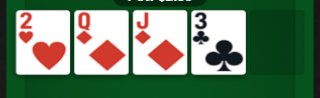
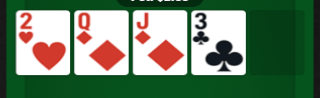
Visual parity: PS config-matched settings, hero card sizing
- Font reverted to Roboto Condensed (from PS base.json config)
- Hero cards sized to 67x95px (matching PS CSS rendering at 2x DPI)
- Card back sized to 38x53px (PS cardBackWidth: 53)
- POKERSTARS text at 10% opacity, 20px
- Board card shadow lightened
- Button font size 17px
- Test framework: WS disconnect + timer kill for state injection
- PS renders via Cocos2d canvas - CSS matching has ceiling ~0.55
- SSIM: 0.537 (PS vs PS range: 0.45-0.63)

diff --git a/client/index.html b/client/index.html
@@ -7,7 +7,7 @@
 <link href="https://fonts.googleapis.com/css2?family=Roboto+Condensed:wght@400;700&display=swap" rel="stylesheet">
 <style>
   * { box-sizing: border-box; margin: 0; padding: 0; }
-  body { font-family: 'Helvetica Neue', Helvetica, Arial, sans-serif; background: #2b2b2b; color: #fff; display: flex; flex-direction: column; height: 100vh; overflow: hidden; }
+  body { font-family: 'Roboto Condensed', Helvetica, sans-serif; background: #2b2b2b; color: #fff; display: flex; flex-direction: column; height: 100vh; overflow: hidden; }
 
   #header {
     background: #2b2b2b; padding: 0 10px; display: flex; align-items: center;
@@ -58,10 +58,10 @@
     content: '♠  POKERSTARS'; position: absolute;
     left: 50%; top: 46%;
     transform: translate(-50%, -50%);
-    font-family: 'Arial', sans-serif;
-    font-size: 14px; font-weight: 700;
+    font-family: 'Roboto Condensed', sans-serif;
+    font-size: 20px; font-weight: 700;
     letter-spacing: 5px;
-    color: rgba(255,255,255,0.08);
+    color: rgba(255,255,255,0.10);
     z-index: 1; pointer-events: none;
     text-transform: uppercase;
   }
@@ -150,10 +150,10 @@
     background-image: url('ps_assets/card_back.png');
     background-size: 100% 100%;
     background-position: 0 0;
-    width: 36px; height: 50px; border-radius: 3px;
+    width: 38px; height: 53px; border-radius: 3px;
     box-shadow: 1px 2px 5px rgba(0,0,0,0.7);
   }
-  .card.facedown + .card.facedown { margin-left: -14px; transform: rotate(10deg); }
+  .card.facedown + .card.facedown { margin-left: -15px; transform: rotate(10deg); }
   .card.empty-slot { background: transparent; border: none; box-shadow: none; width: 0; height: 0; overflow: hidden; background-image: none; }
 
   /* ── HERO CARDS — match PS layout exactly ── */
@@ -168,7 +168,7 @@
     box-shadow: 2px 3px 10px rgba(0,0,0,0.7);
   }
   .hero-cards .card + .card {
-    margin-left: -30px; /* PS overlap ~45% visible */
+    margin-left: -30px; /* PS overlap */
     position: relative;
     top: 6px;
   }
@@ -198,7 +198,7 @@
   /* ── BOARD — positioned from PS screenshot measurements ── */
   #board-area { position: absolute; left: 50%; top: 35%; transform: translate(-50%, -50%); text-align: center; z-index: 3; }
   #board { display: flex; gap: 4px; justify-content: center; min-height: 65px; position: relative; }
-  #board .card { width: 54px; height: 78px; border-radius: 4px; box-shadow: 0 2px 6px rgba(0,0,0,0.5); }
+  #board .card { width: 54px; height: 78px; border-radius: 4px; box-shadow: 0 1px 4px rgba(0,0,0,0.3); }
   /* Dark card slots on the felt — visible before cards are dealt */
   .card-slot { width: 54px; height: 78px; background: rgba(0,0,0,0.15); border-radius: 4px; border: 1px solid rgba(0,0,0,0.1); }
   /* ── POT ── */
@@ -216,7 +216,7 @@
   }
   #action-bar button {
     padding: 10px 4px; border: none; border-radius: 10px; cursor: pointer;
-    font-family: 'Roboto Condensed', sans-serif; font-size: 16px; font-weight: 700;
+    font-family: 'Roboto Condensed', sans-serif; font-size: 17px; font-weight: 700;
     flex: 1; min-width: 0; white-space: normal; letter-spacing: 0.3px;
     transition: background 0.15s;
     box-shadow: 0 3px 10px rgba(0,0,0,0.5);

diff --git a/client/table.js b/client/table.js
@@ -506,7 +506,7 @@ function seatCardHtml(card) {
 
 function heroCardHtml(card) {
   if (!card) return '';
-  return `<span class="card hero-card" style="width:62px;height:98px;background:none"><img src="${cardImgSrc(card)}" style="width:62px;height:98px;display:block;border-radius:5px"></span>`;
+  return `<span class="card hero-card" style="width:67px;height:95px;background:none"><img src="${cardImgSrc(card)}" style="width:67px;height:95px;display:block;border-radius:5px"></span>`;
 }
 
 function render() {

diff --git a/vision/test_visual_parity.py b/vision/test_visual_parity.py
@@ -122,7 +122,13 @@ const fs = require('fs');
     await Page.loadEventFired();
     await new Promise(r => setTimeout(r, 5000));
     // Inject board + action state
-    // Match PS reference: 2h Qd Jd 3c board, Ts As hero
+    // Disconnect WS and kill timers to freeze state
+    await Runtime.evaluate({ expression: `
+        if (ws) { ws.onmessage = null; ws.onclose = null; ws.close(); }
+        var id = window.setTimeout(function(){}, 0);
+        while (id--) { window.clearTimeout(id); window.clearInterval(id); }
+    ` });
+    await new Promise(r => setTimeout(r, 500));
     await Runtime.evaluate({ expression: `
         if (state && state.hand) {
             state.hand.board = ['2h','Qd','Jd','3c'];
@@ -130,7 +136,29 @@ const fs = require('fs');
             state.hand.actionSeat = 0;
             state.hand.phase = 'TURN';
             state.hand.legalActions = { actions: ['FOLD','CALL','RAISE'], callAmount: 140, minRaise: 280, maxRaise: 800 };
-            if (state.seats[0]) { state.seats[0].holeCards = ['Ts','As']; }
+            // Match all players from PS screenshot
+            var players = [
+                {seat:0, name:'Skurj_poker', stack:1887, cards:['Ts','As']},
+                {seat:1, name:'gionni228', stack:1241},
+                {seat:2, name:'segard', stack:995},
+                {seat:3, name:'thangkorean', stack:1278},
+                {seat:4, name:'samianovais', stack:794},
+                {seat:5, name:'gioccolive', stack:1311},
+            ];
+            for (var p of players) {
+                if (state.seats[p.seat]) {
+                    state.seats[p.seat].player = {name: p.name};
+                    state.seats[p.seat].stack = p.stack;
+                    state.seats[p.seat].status = 'OCCUPIED';
+                    if (p.cards) state.seats[p.seat].holeCards = p.cards;
+                    if (p.seat !== 0) {
+                        state.seats[p.seat].inHand = true;
+                        state.seats[p.seat].folded = false;
+                    }
+                }
+            }
+            state.tableName = 'Haidea IV';
+            state.button = 5;
             render();
         }
     ` });
